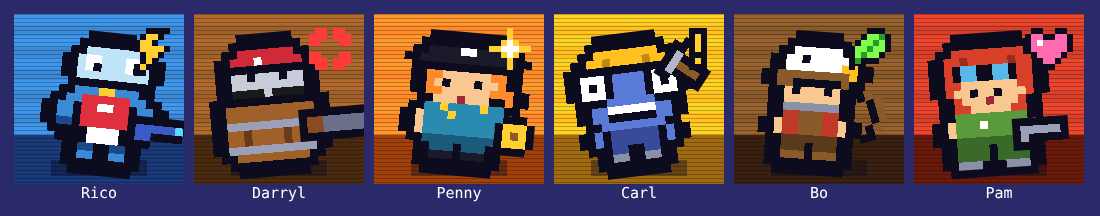
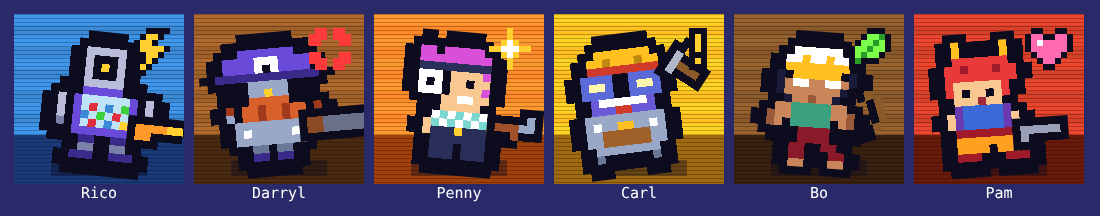
Redraw Rico, Darryl, Penny, Carl, Bo and Pam from reference pictures
Claude-Session: https://claude.ai/code/session_01FdRq2KxaynozDRfyymzMuF

diff --git a/Brawl8Bit.html b/Brawl8Bit.html
@@ -1108,12 +1108,12 @@ const SPECIAL_SKINS = {
   barley: [{ id: 'wizard', name: 'Wizard', pal: { H: '#2a3a9a', h: '#ffd030', r: '#3a2a8a', c: '#c8a8f0' }, price: { gems: 80 } }],
   sprout: [{ id: 'hotsauce', name: 'Hot Sauce', pal: { l: '#e03030', L: '#a01a1a', y: '#ff8a2a' }, price: { gems: 60 } }],
   emz: [{ id: 'friendzoner', name: 'Friendzoner', pal: { P: '#ff6ab0', Q: '#c0307a', p: '#3a3a5a', v: '#1a1a2a' }, price: { gems: 80 } }],
-  rico: [{ id: 'popcorn', name: 'Popcorn', pal: { b: '#e03030', B: '#a01a1a', r: '#ffffff', c: '#fff4c0' }, price: { gems: 60 } }],
-  darryl: [{ id: 'ducky', name: 'Ducky', pal: { n: '#ffd030', N: '#d8a010', g: '#ff8a2a', r: '#3a8ad8' }, price: { gems: 80 } }],
-  penny: [{ id: 'bunny', name: 'Bunny', pal: { K: '#f0e8f0', o: '#ff9ac8', c: '#ff6ab0', C: '#c0307a' }, price: { gems: 80 } }],
-  carl: [{ id: 'hotrod', name: 'Hot Rod', pal: { y: '#e03030', Y: '#a01a1a', b: '#2a2a3a', B: '#1a1a2a' }, price: { gems: 80 } }],
-  bo: [{ id: 'mecha', name: 'Mecha', pal: { n: '#5a6a8a', N: '#3a4a6a', w: '#c8d8f0', r: '#3ad8ff', y: '#ff6ab0' }, price: { gems: 100 } }],
-  pam: [{ id: 'nurse', name: 'Nurse', pal: { r: '#ffd030', R: '#d8a010', j: '#f0f0f8', J: '#c8ccd8', b: '#ff6ab0' }, price: { gems: 80 } }],
+  rico: [{ id: 'popcorn', name: 'Popcorn', pal: { v: '#e03030', V: '#a01a1a', c: '#fff4c0', b: '#ffffff', n: '#ffd030' }, price: { gems: 60 } }],
+  darryl: [{ id: 'ducky', name: 'Ducky', pal: { o: '#ffd030', O: '#d8a010', g: '#ff8a2a', P: '#3a8ad8', Q: '#1a5aa8' }, price: { gems: 80 } }],
+  penny: [{ id: 'bunny', name: 'Bunny', pal: { m: '#f0e8f0', M: '#c0c0d0', n: '#ff6ab0', t: '#ff9ac8' }, price: { gems: 80 } }],
+  carl: [{ id: 'hotrod', name: 'Hot Rod', pal: { y: '#e03030', Y: '#a01a1a', v: '#2a2a3a', c: '#3a3a4a' }, price: { gems: 80 } }],
+  bo: [{ id: 'mecha', name: 'Mecha', pal: { w: '#9aa8c8', g: '#5a6a8a', r: '#3a4a6a', y: '#3ad8ff' }, price: { gems: 100 } }],
+  pam: [{ id: 'nurse', name: 'Nurse', pal: { r: '#ffd030', R: '#d8a010', b: '#f0f0f8', o: '#f0f0f8', v: '#ff6ab0' }, price: { gems: 80 } }],
 };
 const skinName = (id, sk) => !sk ? 'Classic' : ((SPECIAL_SKINS[id] || []).find(x => x.id === sk) || SKINS.find(x => x.id === sk) || { name: sk }).name;
 // mastery
@@ -2131,108 +2131,108 @@ const SPR = {
   // small items
   gem: { pal: { p: '#c063ff', P: '#7a2bd0', w: '#f2d2ff' }, rows: ['...k...', '..kwk..', '.kwppk.', 'kppppPk', 'kpppPPk', '.kpPPk.', '..kPk..', '...k...'] },
   cube: { pal: { l: '#9dff6b', g: '#4fd145' }, rows: ['kkkkkkk', 'kllllgk', 'kgggwgk', 'kggwwgk', 'kgwwggk', 'kgwgggk', 'kkkkkkk'] },
-  rico: { pal: { b: '#3a8ad8', B: '#1a4a8a', c: '#bfe4f8', r: '#e03040', y: '#ffd030' }, weapon: 'laser', rows: [
-    '.....kkkkkk.....',
-    '....kccccccck...',
-    '...kcwwcccwwck..',
-    '...kcwkcccwkck..',
-    '...kccccccccck..',
-    '....kkkkkkkkk...',
-    '...kbbbyybbbk...',
-    '..kbbrrrrrrbbk..',
-    '.kbbkrrwwrrkbbk.',
-    '.kbbkrrrrrrkbbk.',
-    '.kBBkrrrrrrkBBk.',
-    '..kk.kwwwwk.kk..',
-    '.....kwwwwk.....',
-    '....kBBkkBBk....',
-    '....kbbkkbbk....',
-    '....kkkkkkkk....'] },
-  darryl: { pal: { n: '#a0602a', N: '#6a3a1a', g: '#9aa0b8', r: '#d02a3a', s: '#c8ccd8', K: '#1a1a1a' }, weapon: 'double', rows: [
+  rico: { pal: { g: '#b8bcd8', G: '#7a80a8', v: '#6a4ad8', V: '#3a2a8a', c: '#bfe4f8', r: '#e03040', b: '#3a8ad8', n: '#3ad13a', y: '#ffd030' }, weapon: 'ricogun', rows: [
+    '.....kkkkk......',
+    '....kgggggk.....',
+    '....kgkkkgk.....',
+    '....kgkykgk.....',
+    '....kgkkkgk.....',
+    '....kgggggk.....',
+    '..kkkvvvvvkkk...',
+    '.kgkvccccccvkgk.',
+    '.kgkvcrcbcnvkgk.',
+    '.kgkvbcncrcvkgk.',
+    '.kGkvcrcbcyvkGk.',
+    '.kkkvvvvvvvvkkk.',
+    '....kVVkkVVk....',
+    '....kGGkkGGk....',
+    '...kVVVkkVVVk...',
+    '...kkkkkkkkkk...'] },
+  darryl: { pal: { P: '#6a4ad8', Q: '#3a2a8a', g: '#9aa8c8', G: '#6a7898', o: '#d8602a', O: '#a03a1a', y: '#ffd030' }, weapon: 'double', rows: [
     '....kkkkkkk.....',
-    '...krrrrrrrk....',
-    '..krrrwrrrrrk...',
-    '..kkkkkkkkkkk...',
-    '..ksskssskssk...',
-    '..ksssssssssk...',
-    '..kKKKKsKKKKk...',
-    '.kkkkkkkkkkkkk..',
-    '.knnnnnnnnnnnk..',
-    '.knnnnnnnnnnnk..',
-    '.kgggggggggggk..',
-    '.knnNnnnnNnnnk..',
-    '.knnNnnnnNnnnk..',
-    '.kgggggggggggk..',
-    '..knnnnnnnnnk...',
+    '..kkPPPPPPPkk...',
+    '.kPPPPwwwPPPPk..',
+    '.kPPPPwkwPPPPk..',
+    'kQQQQQQQQQQQQQk.',
+    '.kkkkgggggkkkk..',
+    '....kggyggk.....',
+    '..kkkoooookkk...',
+    '.kOkooOooOookOk.',
+    '.kgkooOooOookgk.',
+    '..kgggggggggk...',
+    '..kgwgggggwgk...',
+    '..kgggggggggk...',
+    '...kkGGkGGkk....',
+    '....kQQkQQk.....',
+    '....kkkkkkk.....'] },
+  penny: { pal: { m: '#d850d8', M: '#9a2a9a', n: '#2a2f5a', t: '#7ad8d0', y: '#ffd030' }, weapon: 'penngun', rows: [
+    '..kk.kkkkk......',
+    '.kmmkmmmmmk.....',
+    '.kmmmmmmmmmk....',
+    '.knnnnnnnnnk....',
+    '.kwwwkssssmk....',
+    '.kwkwksskssk....',
+    '.kwwwkssssmk....',
+    '..kkksswwssk....',
+    '....ksssssk.....',
+    '...kwtwtwtwk....',
+    '..kstwtwtwtsk...',
+    '..ksnnnynnnsk...',
+    '...knnnnnnnk....',
+    '...knnnknnnk....',
+    '...knnnknnnk....',
     '...kkkkkkkkk....'] },
-  penny: { pal: { K: '#1a1a2a', o: '#ff8a2a', c: '#2a8ab0', C: '#1a5a7a', y: '#ffd030' }, weapon: 'bag', rows: [
-    '...kkkkkkkkkk...',
-    '..kKKKKwwKKKKk..',
-    '.kKKKKKKKKKKKKk.',
-    '..kkkkkkkkkkkk..',
-    '..koossssssook..',
-    '..koskssskssok..',
-    '..koossssssoook.',
-    '...ksssmsssk.ok.',
-    '..kccyccccycck..',
-    '.kscccyccccccsk.',
-    '.kscccccccccsk..',
-    '.kscccccccccsk..',
-    '..kCCCCCCCCCk...',
-    '...kCCCkCCCk....',
-    '...kKKKkKKKk....',
-    '...kkkkkkkkk....'] },
-  carl: { pal: { y: '#ffc020', Y: '#c08a10', b: '#5a7ad8', B: '#3a4a9a' }, weapon: 'pickaxe', rows: [
-    '....kkkkkkkk....',
-    '...kyyyyyyyyk...',
-    '..kyyYyyyyYyyk..',
-    '.kkkkkkkkkkkkkk.',
-    '.kwwwkbbbbkwwwk.',
-    '.kwkwkbbbbkwkwk.',
-    '.kwwwkbbbbkwwwk.',
-    '..kkkbbbbbbkkk..',
-    '..kbbwwwwwwbbk..',
-    '..kbbkkkkkkbbk..',
-    '...kbbbbbbbbk...',
-    '..kbkBBBBBBkbk..',
-    '..kbkBBBBBBkbk..',
-    '....kBBkkBBk....',
-    '....kggkkggk....',
-    '....kkkkkkkk....'] },
-  bo: { pal: { n: '#8a5a2a', N: '#5a3a1a', y: '#ffc020', r: '#c03a2a' }, weapon: 'bow', rows: [
+  carl: { pal: { y: '#ffc020', Y: '#c08a10', r: '#d03a2a', b: '#5a6ad8', l: '#fff6b0', v: '#6a5ad8', c: '#9aa8c8', C: '#6a7898', n: '#a0602a' }, weapon: 'pickaxe', rows: [
+    '....kkkkkkk.....',
+    '...kyyyyyyyk....',
+    '..kyyYyyyYyyk...',
+    '..krrrrrrrrrk...',
+    '.kbbbbkkbbbbk...',
+    '.kbllbkkbllbk...',
+    '.kbbbbkkbbbbk...',
+    '..kvwwwwwwvk....',
+    '..kvvvrrvvvk....',
+    '.kcccccccccck...',
+    '.kcwccyyccwck...',
+    '.kccnnnnnncck...',
+    '.kccnnnnnncck...',
+    '..kcccccccck....',
+    '..kCkkkkkkCk....',
+    '..kkk....kkk....'] },
+  bo: { pal: { y: '#ffc020', h: '#1a1a3a', s: '#c8865a', S: '#9a5a3a', g: '#3aa080', r: '#8a1a2a' }, weapon: 'bow', rows: [
     '....kkkkkk......',
     '...kwwwwwwk.....',
-    '..kwwkwwwwwk....',
-    '..kwwwwwwwyyk...',
-    '.knnnnnnnnnyk...',
-    '.knnkkkkkknk....',
-    '..ksksssksk.....',
-    '..ksssssssk.....',
-    '..kgggggggk.....',
-    '..krrnnnrrk.....',
-    '.ksrrnnnrrsk....',
-    '.ksrrnnnrrsk....',
-    '..kNNNNNNNk.....',
-    '..kNNNkNNNk.....',
-    '..knnnknnnk.....',
-    '..kkkkkkkkk.....'] },
-  pam: { pal: { r: '#d8402a', R: '#a02a1a', b: '#5ab8e8', j: '#5a9a3a', J: '#3a6a2a' }, weapon: 'scrap', rows: [
-    '...kkkkkkkkk....',
-    '..krrrrrrrrrk...',
-    '.krrRrrrrrRrrk..',
-    '.krkbbkkbbkrrk..',
-    '.krkbbkkbbkrrk..',
-    '.krrsssssssrrk..',
-    '.krsskssksssrk..',
-    '..krsssmsssrk...',
-    '..krrsssssrrk...',
-    '..kjjjjjjjjjk...',
-    '.ksjjjwjjjjjsk..',
-    '.ksjjjjjjjjjsk..',
-    '.kkJJJJJJJJJkk..',
-    '..kJJJJkJJJJk...',
-    '..kJJJJkJJJJk...',
-    '..kgggkkkgggk...'] },
+    '..kwwywwywwk....',
+    '..kyyyyyyyyk....',
+    '.khkyyyyyykhk...',
+    '.khswwsswwshk...',
+    '.khssssssshk....',
+    '..khssSsshk.....',
+    '.kssgggggssk....',
+    'kSssgggggssSk...',
+    'kSskgggggksSk...',
+    '.kk.krrrrk.kk...',
+    '....krrrrk......',
+    '...krrkkrrk.....',
+    '...krrk.krrk....',
+    '...kssk.kssk....'] },
+  pam: { pal: { r: '#e83a3a', R: '#a01a2a', y: '#ffc020', b: '#3a6ad8', v: '#6a3ab0', o: '#ffa020' }, weapon: 'scrap', rows: [
+    '..kyk...kyk.....',
+    '..kykkkkkyk.....',
+    '..krrrrrrrk.....',
+    '.krrRrrrRrrk....',
+    '.krrrrrrrrrk....',
+    '.krssssssrk.....',
+    '.krskssksrk.....',
+    '..ksssmssk......',
+    '..kvbbbbbvk.....',
+    '.ksvbbbbbvsk....',
+    '.ksvbbbbbvsk....',
+    '..kRRRRRRRk.....',
+    '..kooooooook....',
+    '..kooookooook...',
+    '..kRRRk.kRRRk...',
+    '..kkkkk.kkkkk...'] },
   mushroom: { pal: { r: '#e8303a' }, rows: ['..kkk..', '.krwrk.', 'krrrwrk', 'kkkkkkk', '..kwk..', '..kwk..', '..kkk..'] },
   drink: { pal: { c: '#c0c8d8', g: '#3ad13a', G: '#1a8a1a', y: '#ffd23a' }, rows: ['.kkk.', 'kcwck', 'kgggk', 'kyGyk', 'kgggk', 'kgggk', '.kkk.'] },
   star: { pal: { y: '#ffe040', Y: '#e0a000' }, rows: ['...k...', '..kyk..', 'kkkyykk', 'kyyyyYk', '.kyyYk.', 'kyykYYk', 'kkk.kkk'] },
@@ -2540,6 +2540,8 @@ const WEAPONS = {
   lamp: { pal: { y: '#ffd030' }, rows: ['..kk...', '.kyyk..', 'kyyyykk', '.kkkk..'], ox: 11, oy: 10 },
   laser: { pal: { b: '#3a5ac8', c: '#5ad8ff' }, rows: ['kkkkkkk.', 'kbbbbbck', 'kbbkkkk.', 'kkk.....'], ox: 11, oy: 9 },
   bottle: { pal: { g: '#3ab040', c: '#e8d8a0' }, rows: ['.kk.', 'kggk', 'kcck', 'kcck', 'kggk', 'kkkk'], ox: 12, oy: 8 },
+  ricogun: { pal: { o: '#ff9a2a', y: '#ffd030' }, rows: ['kkkkkkk.', 'kooooyyk', 'kookkkk.', 'kkk.....'], ox: 11, oy: 9 },
+  penngun: { pal: { n: '#a0502a', g: '#9aa8c8' }, rows: ['....kkk', 'kkkkkgk', 'knnnggk', 'kkknkkk', '..kk...'], ox: 11, oy: 8 },
   bag: { pal: { y: '#ffd030', n: '#8a5a2a' }, rows: ['.kkk.', 'kyyyk', 'kynyk', 'kyyyk', '.kkk.'], ox: 12, oy: 9 },
   pickaxe: { pal: { g: '#b0b8c8', n: '#8a5a2a' }, rows: ['kkkkk.', 'kgggkk', '.knk..', '.knk..', '.knk..', '.kkk..'], ox: 12, oy: 4 },
   bow: { pal: { n: '#8a5a2a' }, rows: ['kk...', '.kn..', '..kn.', '..kn.', '..kn.', '.kn..', 'kk...'], ox: 11, oy: 6 },
